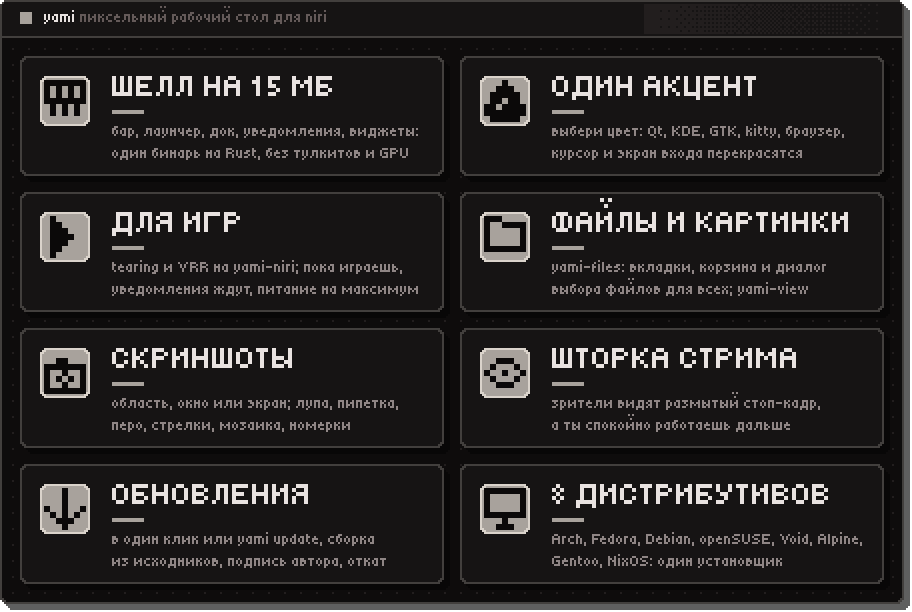
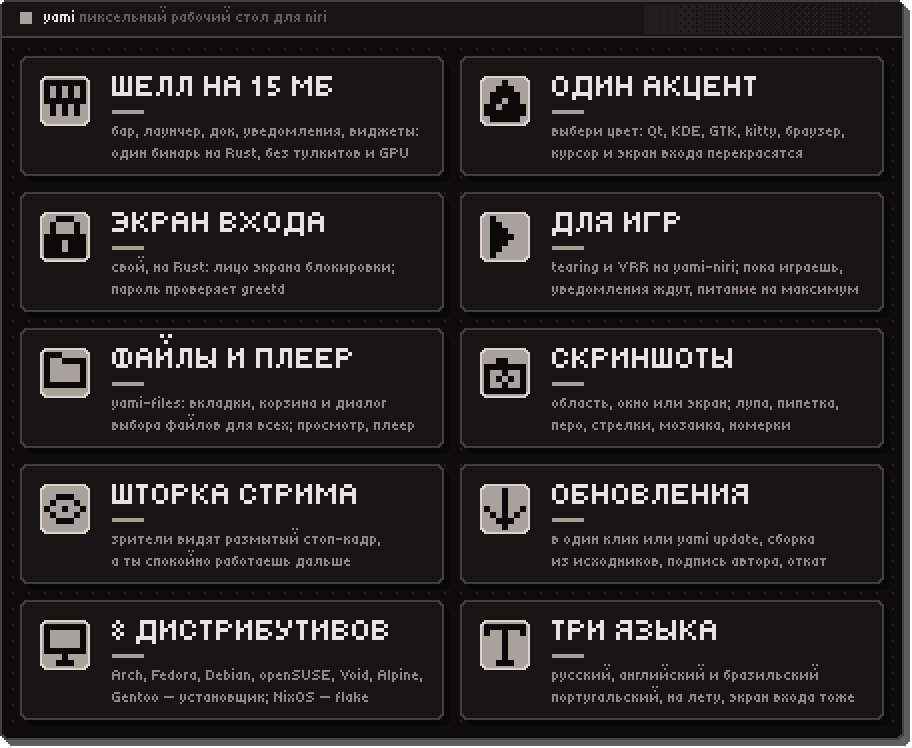
tools: README shots of the login screen and the plain desktop, 10 cards
The login screen is the news of 2.6 and had no picture. `yami-greet
shot --size WxH` renders its states at any size with its own drawing
code (a made-up user and host); readme-shots.sh puts it at the screen's
size on the look the shell published, and also takes clean.png, which
used to be made by hand. The feature cards gain «login screen» and
«three languages»; the distro card says NixOS goes through the flake.

Changed region(s): [[0.0, 0.0, 1.0, 1.0], [0.9518, 0.5899, 0.9825, 0.6209], [0.4605, 0.4036, 0.4912, 0.4346]]

diff --git a/tools/readme-art.py b/tools/readme-art.py
@@ -83,18 +83,22 @@ CARDS = [
      "шелл на 15 МБ", "бар, лаунчер, док, уведомления, виджеты:", "один бинарь на Rust, без тулкитов и GPU"),
     ("drop", "one accent", "pick a colour: Qt, KDE, GTK, kitty, browser,", "the cursor and the login screen follow",
      "один акцент", "выбери цвет: Qt, KDE, GTK, kitty, браузер,", "курсор и экран входа перекрасятся"),
+    ("lock", "login screen", "our own greeter in Rust: the lock screen's", "face; greetd checks the password",
+     "экран входа", "свой, на Rust: лицо экрана блокировки;", "пароль проверяет greetd"),
     ("play", "made for games", "tearing and VRR on yami-niri; while you play", "notifications wait, power goes to max",
      "для игр", "tearing и VRR на yami-niri; пока играешь,", "уведомления ждут, питание на максимум"),
-    ("folder", "files and viewer", "yami-files: tabs, split view, trash and the", "file dialog of every app; yami-view",
-     "файлы и картинки", "yami-files: вкладки, корзина и диалог", "выбора файлов для всех; yami-view"),
+    ("folder", "files and player", "yami-files: tabs, split view, trash and the", "file dialog of every app; yami-view, yami-play",
+     "файлы и плеер", "yami-files: вкладки, корзина и диалог", "выбора файлов для всех; просмотр, плеер"),
     ("camera", "screenshots", "area, window or screen; loupe, colour picker,", "pen, arrows, mosaic, numbered badges",
      "скриншоты", "область, окно или экран; лупа, пипетка,", "перо, стрелки, мозаика, номерки"),
     ("eye", "stream curtain", "viewers of a stream see a frozen, blurred", "screen while you keep working",
      "шторка стрима", "зрители видят размытый стоп-кадр,", "а ты спокойно работаешь дальше"),
     ("down", "signed updates", "one click or yami update, built from source,", "tags checked by the author's key, rollback",
      "обновления", "в один клик или yami update, сборка", "из исходников, подпись автора, откат"),
-    ("screen", "any distro", "Arch, Fedora, Debian, openSUSE, Void, Alpine,", "Gentoo, NixOS: one installer, one command",
-     "8 дистрибутивов", "Arch, Fedora, Debian, openSUSE, Void, Alpine,", "Gentoo, NixOS: один установщик"),
+    ("screen", "any distro", "Arch, Fedora, Debian, openSUSE, Void, Alpine,", "Gentoo: one installer; NixOS: a flake",
+     "8 дистрибутивов", "Arch, Fedora, Debian, openSUSE, Void, Alpine,", "Gentoo — установщик; NixOS — flake"),
+    ("text", "three languages", "English, Russian and Brazilian Portuguese,", "switched live, the login screen too",
+     "три языка", "русский, английский и бразильский", "португальский, на лету, экран входа тоже"),
 ]
 HEAD = {"en": ("yami", "a pixel desktop for niri"), "ru": ("yami", "пиксельный рабочий стол для niri")}
 

diff --git a/shell/greet/src/main.rs b/shell/greet/src/main.rs
@@ -6,7 +6,7 @@
 //   yami-greet --demo           то же без greetd, пароль «yami», Esc — выйти (в окне niri или
 //                               поверх своего сеанса: кнопка «показать» в настройках шелла)
 //   yami-greet kdl [--plain]    конфиг niri экрана входа в stdout
-//   yami-greet shot [-o DIR] [--lang en]   снимки состояний в PNG без Wayland
+//   yami-greet shot [-o DIR] [--lang en] [--size WxH]   снимки состояний в PNG без Wayland
 
 mod app;
 mod data;
@@ -30,7 +30,7 @@ fn main() {
             0
         }
         Some("-h") | Some("--help") => {
-            println!("yami-greet [--demo] | kdl [--plain] | shot [-o DIR] [--lang en]");
+            println!("yami-greet [--demo] | kdl [--plain] | shot [-o DIR] [--lang en|ru|pt-BR] [--size WxH]");
             0
         }
         Some("kdl") => {
@@ -142,11 +142,19 @@ fn greet(demo: bool) -> i32 {
 fn shot(args: &[String]) -> i32 {
     let mut out = PathBuf::from("shots");
     let mut lang = String::new();
+    // размер кадра: 1280×720 для проверок, 1920×1080 для README (tools/readme-shots.sh)
+    let (mut w, mut h) = (1280, 720);
     let mut it = args.iter();
     while let Some(a) = it.next() {
         match a.as_str() {
             "-o" => out = it.next().map(PathBuf::from).unwrap_or(out),
             "--lang" => lang = it.next().cloned().unwrap_or_default(),
+            "--size" => {
+                if let Some((a, b)) = it.next().and_then(|s| s.split_once('x')) {
+                    w = a.parse().unwrap_or(w).clamp(320, 7680);
+                    h = b.parse().unwrap_or(h).clamp(240, 4320);
+                }
+            }
             _ => {}
         }
     }
@@ -208,7 +216,6 @@ fn shot(args: &[String]) -> i32 {
             }
             _ => {}
         }
-        let (w, h) = (1280, 720);
         let mut buf = vec![0u32; (w * h) as usize];
         {
             let mut ui = draw::Ui { cv: yami_px::gfx::Canvas::new(&mut buf, w, h), f: &mut fonts, ic: &mut ic, t: g.look.theme, zones: vec![], ptr: None, down: false, anim: false, blink: true, tr: i18n::tr };
